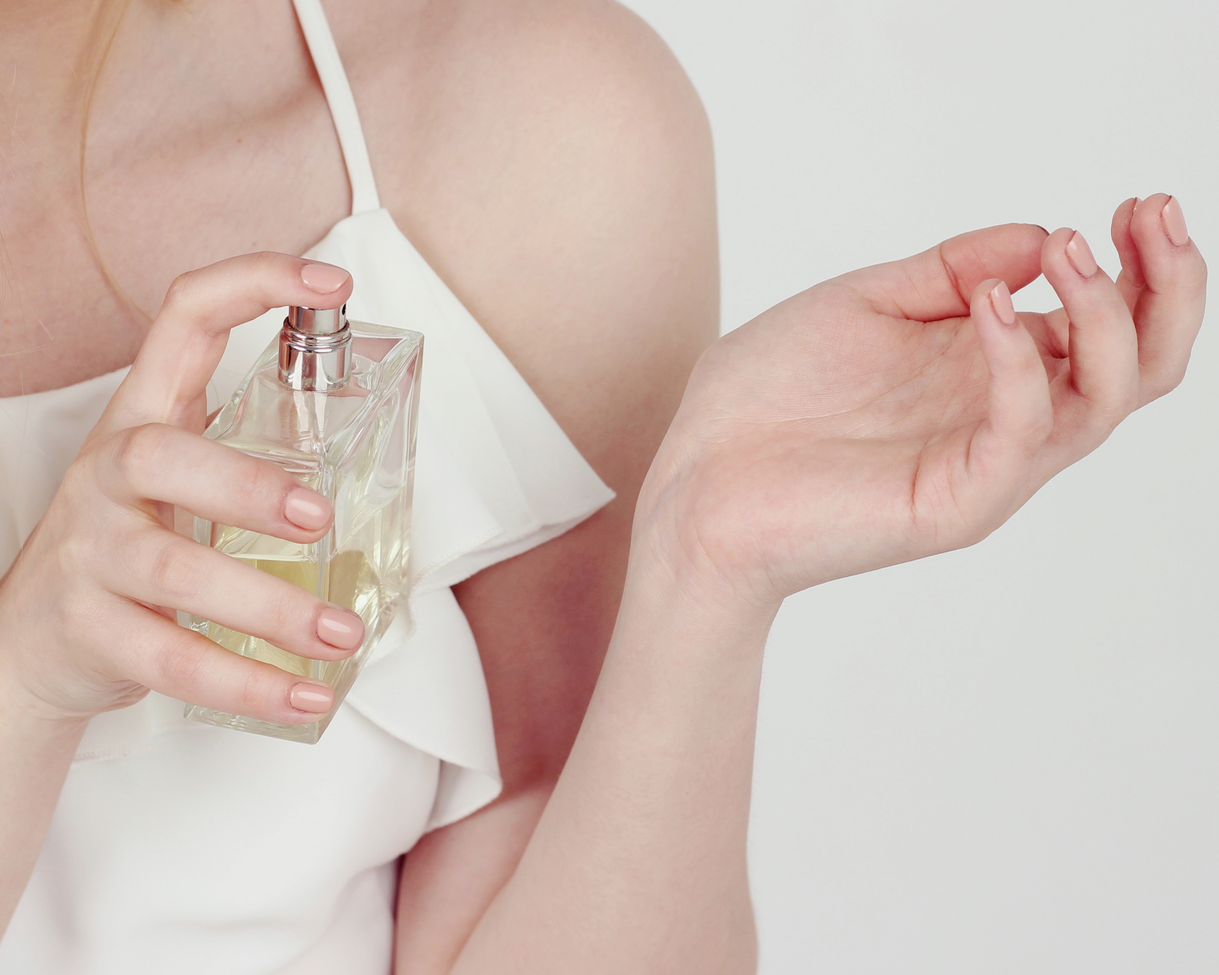
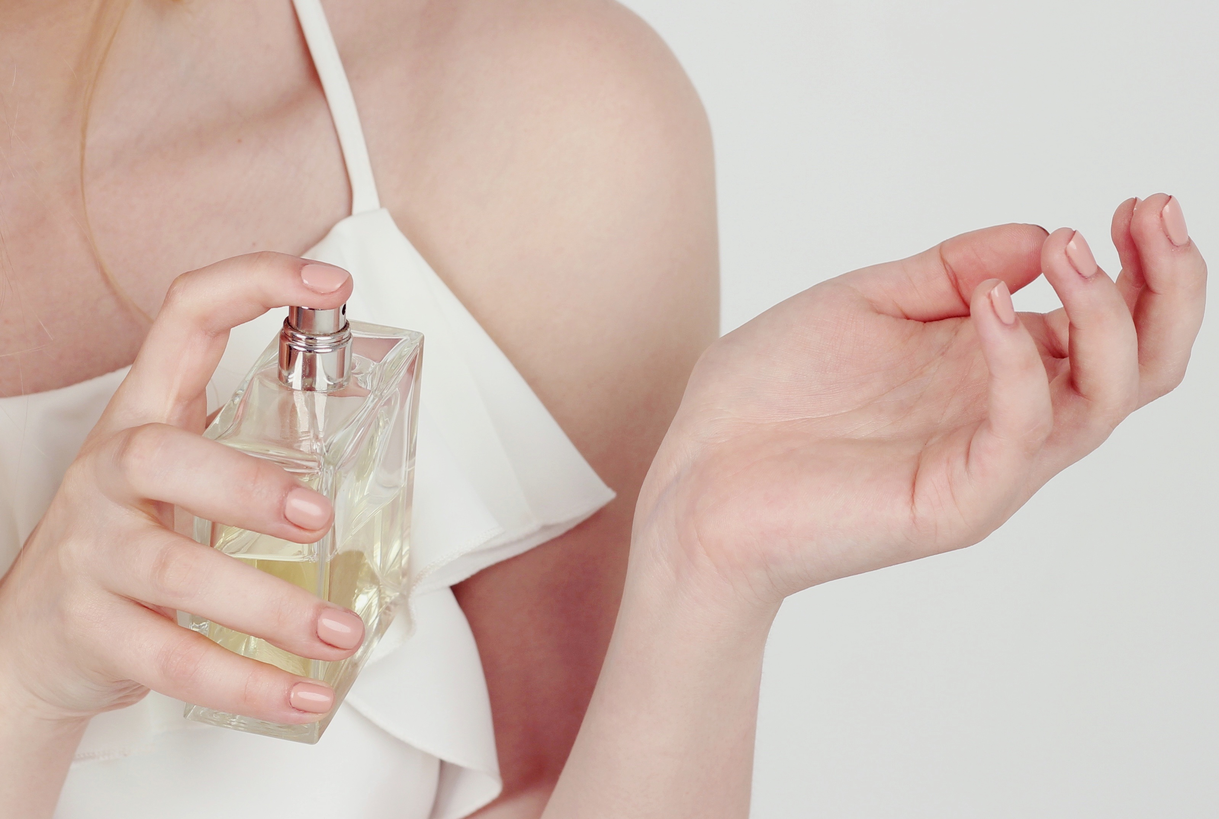
Урезал фотографию и добавил ее вместо временной

diff --git a/templates/landing/home.html b/templates/landing/home.html
@@ -10,7 +10,7 @@
                     <a type="button" href="/gallery" class="home_catalog_button">КАТАЛОГ</a>
                 </div>
                 <div class="col-7">
-                    <img class="home_catalog_img" src="{% static 'img/temp_first_img.jpg' %}">
+                    <img class="home_catalog_img" src="{% static 'img/IMG_1388.jpg' %}">
                 </div>
             </div>
         </div>
